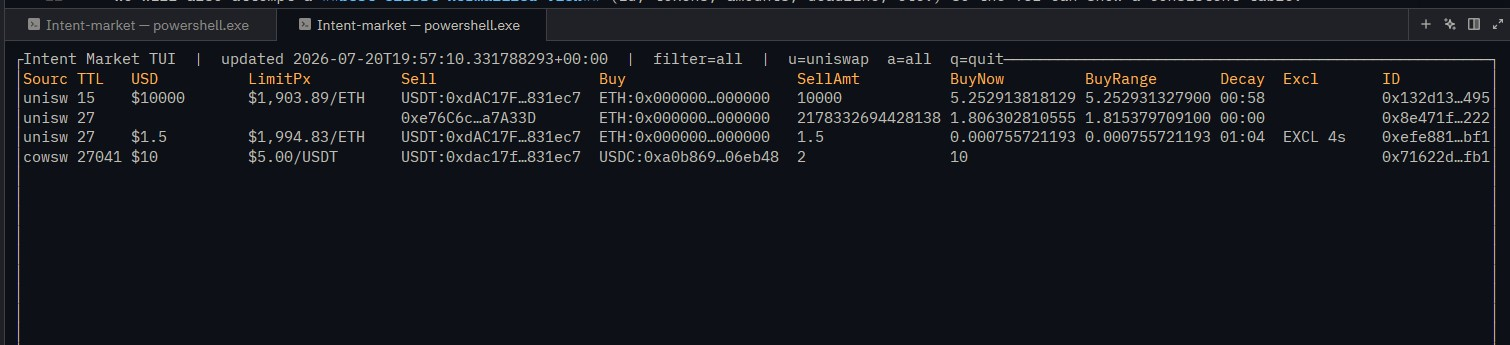
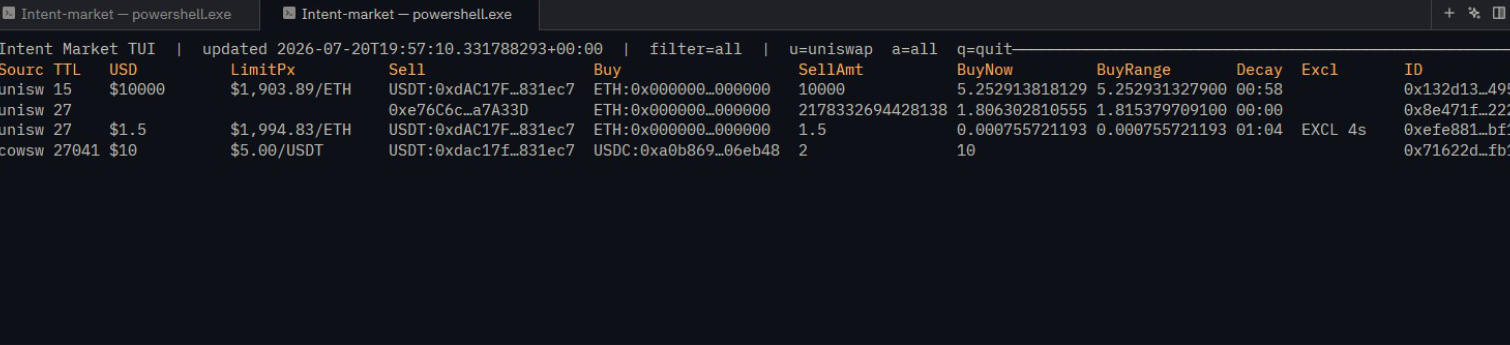
Fixed Image

diff --git a/readme.md b/readme.md
@@ -3,8 +3,10 @@
 Real-time monitoring pipeline for off-chain signed orders ("intents") from Cow Swap and UniswapX.
 
 Built for low latency: a Go ingestor polls venue APIs, a Rust engine maintains an in-memory active orderbook with TTL expiry, and a Ratatui dashboard visualizes live state — all connected over ZeroMQ with minimal overhead.
+<br>
 
 ![Intent Market TUI dashboard](example.jpg)
+<br>
 
 ## Architecture
 